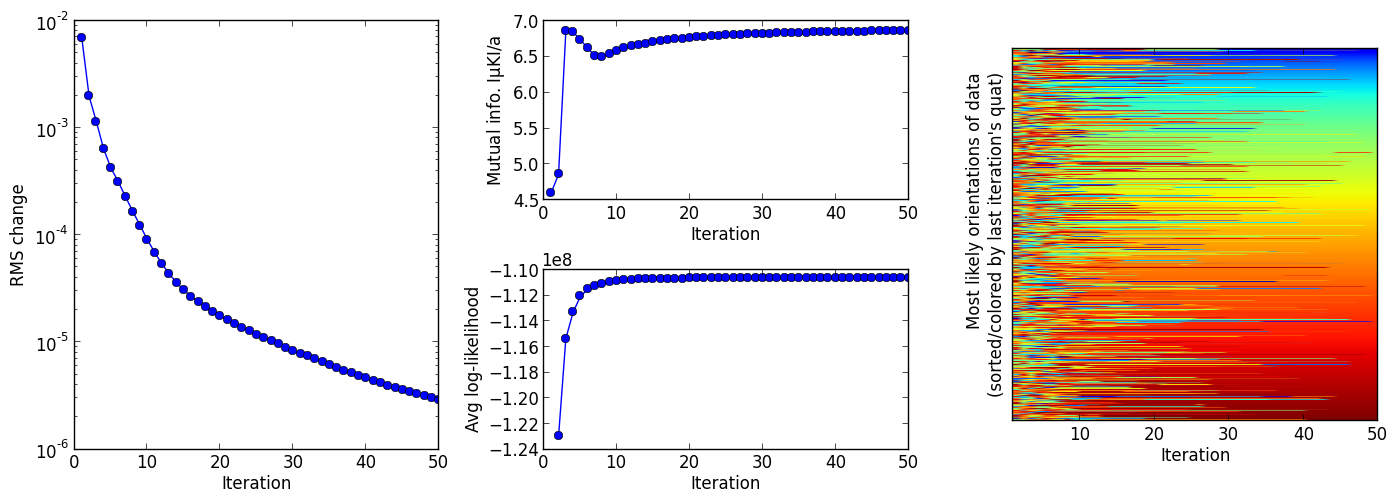
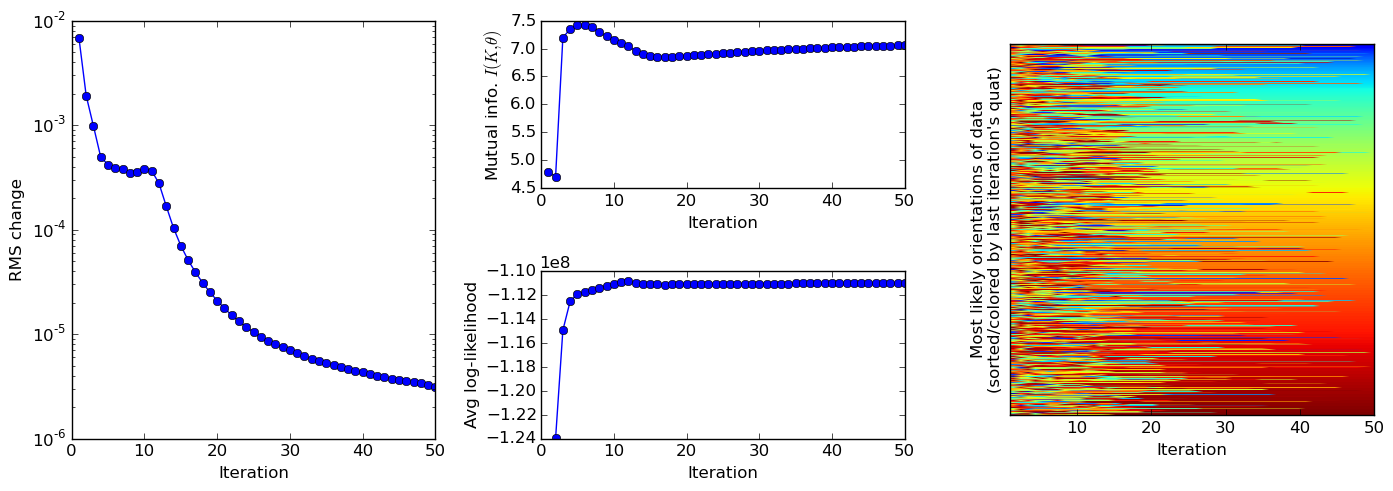
Updated AMO low fluence reconstruction figures

Changed region(s): [[0.0, 0.0305, 1.0, 0.9776]]

diff --git a/paper/EMC.tex b/paper/EMC.tex
@@ -346,12 +346,11 @@ For the CXI reconstruction (Fig.~\ref{fig:cxi_log}), due to the size of the prob
 For the high fluence AMO reconstruction (Fig.~\ref{fig:amo_high_log}), the situation is slightly different. As mentioned before, due to very high signal, the algorithm can fall into a local maxima trap in the first few iterations. This can be avoided by choosing a low $\beta$ as described in Section~\ref{subsec:EMC} to start with. In this particular case $\beta$ was 0.001 for the first 10 iterations and was then doubled every 10 iterations. Once again, the dashed lines represent the iterations at which $\beta$ was doubled.
 
 \begin{figure}
-\caption{Convergence of diffraction speckle features in a simulated AMO single-particle experiment (parameters listed in Table \ref{table:simParams}). In each row we render central slices of the 3D diffraction intensities recovered from KLH1 during an EMC reconstruction, for iterations 1,5,10,15, and 30 in descending row order. These figures were generated by the \texttt{autoplot.py} utility of Section ~\ref{subsubsec:utils}.}
-\includegraphics[width=3.5in]{figures/amo_intens_001.png} 
-\includegraphics[width=3.5in]{figures/amo_intens_005.png} 
-\includegraphics[width=3.5in]{figures/amo_intens_010.png}
-\includegraphics[width=3.5in]{figures/amo_intens_015.png} 
-\includegraphics[width=3.5in]{figures/amo_intens_030.png} 
+\caption{Convergence of diffraction speckle features in a simulated AMO single-particle experiment (parameters listed in Table \ref{table:simParams}). In each row we render central slices of the 3D diffraction intensities recovered from KLH1 during an EMC reconstruction, after iterations 1,10,20 and 50 in ascending row order. These figures were generated by the \texttt{autoplot.py} utility of Section ~\ref{subsubsec:utils}.}
+\includegraphics[width=3.5in]{figures/amo_low_intens_001.png} 
+\includegraphics[width=3.5in]{figures/amo_low_intens_010.png}
+\includegraphics[width=3.5in]{figures/amo_low_intens_020.png} 
+\includegraphics[width=3.5in]{figures/amo_low_intens_050.png} \label{fig:amo_low_intens}
 \includegraphics[width=3.5in]{figures/amo_low_log.png} \label{fig:amo_low_log}
 \end{figure}
 
